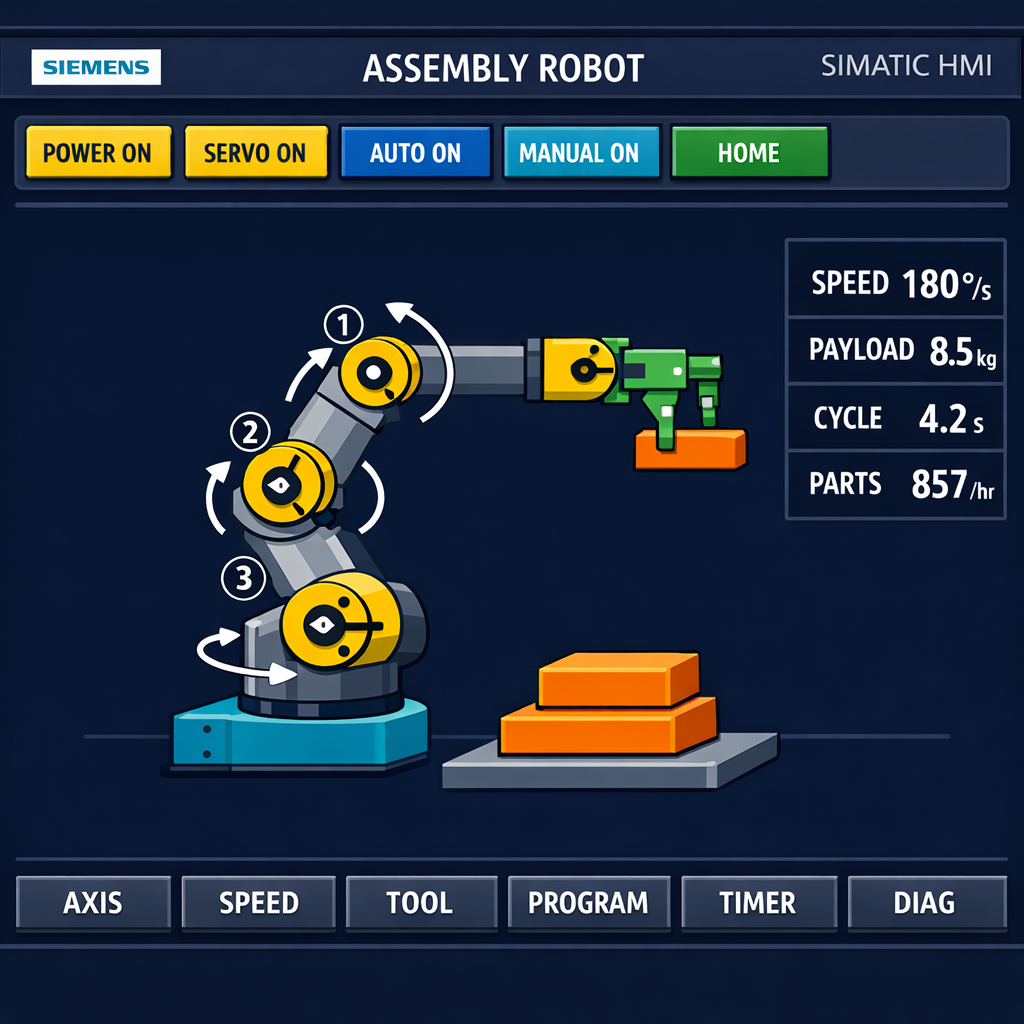
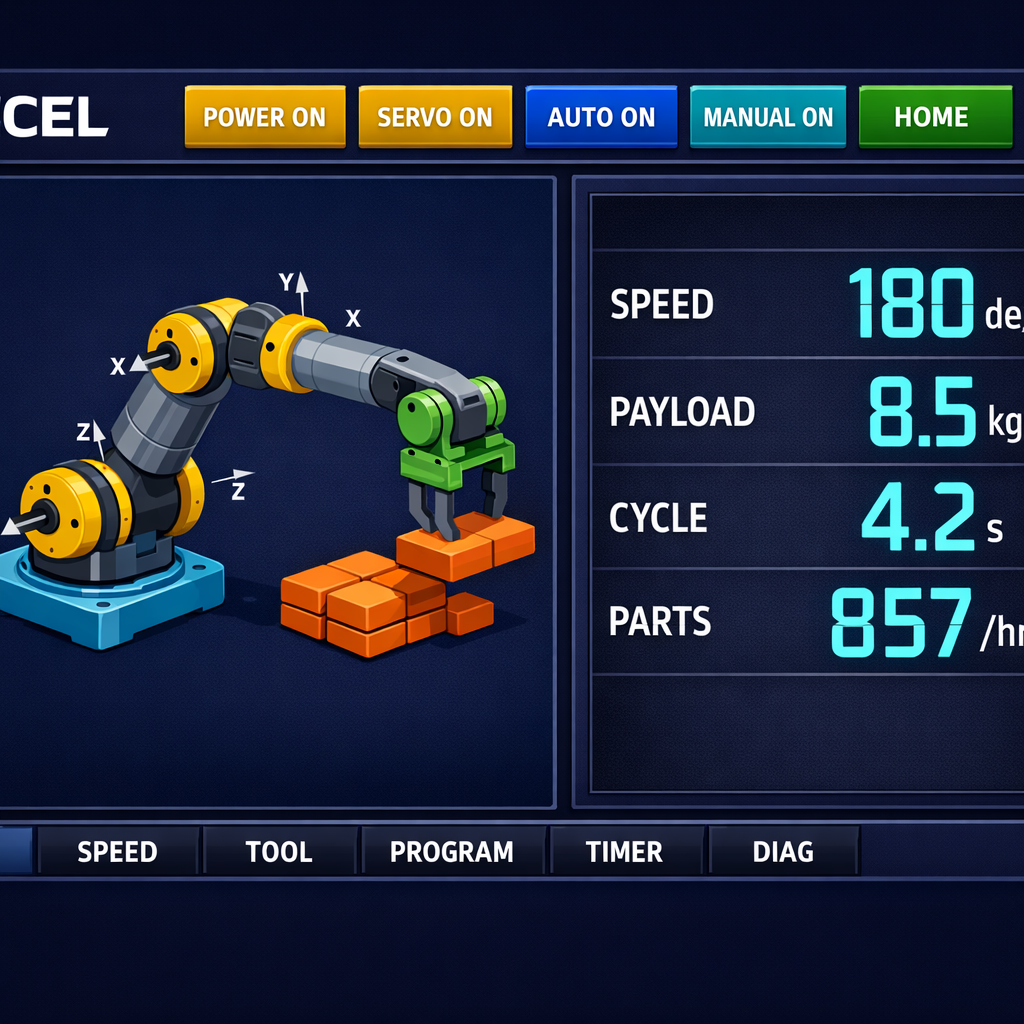
feat: replace HMI images with MYNCEL-branded schematic screens
- Remove all Siemens/SIMATIC branding from HMI images
- Add MYNCEL logo to all 9 machine HMI screens
- Generate new technical schematic HMI images
- Bump cache-bust version from ?v=4 to ?v=5

diff --git a/app/admin/hmi/page.tsx b/app/admin/hmi/page.tsx
@@ -79,45 +79,45 @@ function getMachineImageUrl(category: string, machineName: string): string {
   const name = machineName.toLowerCase();
   // Specific name matches first
   if (name.includes('press brake') || name.includes('pressbrake'))
-    return '/machines/press-brake.png?v=4';
+    return '/machines/press-brake.png?v=5';
   if (name.includes('injection mold') || name.includes('injection molding') || name.includes('inject'))
-    return '/machines/injection-mold.png?v=4';
+    return '/machines/injection-mold.png?v=5';
   if (name.includes('robot') || name.includes('assembly'))
-    return '/machines/assembly.png?v=4';
+    return '/machines/assembly.png?v=5';
   if (name.includes('weld'))
-    return '/machines/welder.png?v=4';
+    return '/machines/welder.png?v=5';
   if (name.includes('lathe'))
-    return '/machines/cnc-lathe.png?v=4';
+    return '/machines/cnc-lathe.png?v=5';
   if (name.includes('mill') || name.includes('milling'))
-    return '/machines/cnc-mill.png?v=4';
+    return '/machines/cnc-mill.png?v=5';
   if (name.includes('press') || name.includes('hydraulic'))
-    return '/machines/press-brake.png?v=4';
+    return '/machines/press-brake.png?v=5';
   if (name.includes('compressor'))
-    return '/machines/compressor.png?v=4';
+    return '/machines/compressor.png?v=5';
   if (name.includes('conveyor'))
-    return '/machines/conveyor.png?v=4';
+    return '/machines/conveyor.png?v=5';
 
   // Category fallbacks
   switch (category) {
     case 'CNC_MILL':
-      return '/machines/cnc-mill.png?v=4';
+      return '/machines/cnc-mill.png?v=5';
     case 'CNC_LATHE':
-      return '/machines/cnc-lathe.png?v=4';
+      return '/machines/cnc-lathe.png?v=5';
     case 'PRESS':
     case 'HYDRAULIC':
-      return '/machines/press-brake.png?v=4';
+      return '/machines/press-brake.png?v=5';
     case 'COMPRESSOR':
-      return '/machines/compressor.png?v=4';
+      return '/machines/compressor.png?v=5';
     case 'CONVEYOR':
-      return '/machines/conveyor.png?v=4';
+      return '/machines/conveyor.png?v=5';
     case 'WELDER':
-      return '/machines/welder.png?v=4';
+      return '/machines/welder.png?v=5';
     case 'INJECTION_MOLD':
-      return '/machines/injection-mold.png?v=4';
+      return '/machines/injection-mold.png?v=5';
     case 'ASSEMBLY':
-      return '/machines/assembly.png?v=4';
+      return '/machines/assembly.png?v=5';
     default:
-      return '/machines/other.png?v=4';
+      return '/machines/other.png?v=5';
   }
 }
 

diff --git a/app/dashboard/hmi/UserHMIClient.tsx b/app/dashboard/hmi/UserHMIClient.tsx
@@ -34,45 +34,45 @@ function getMachineImageUrl(category: string, machineName: string): string {
   const name = machineName.toLowerCase();
   // Specific name matches first
   if (name.includes('press brake') || name.includes('pressbrake'))
-    return '/machines/press-brake.png?v=4';
+    return '/machines/press-brake.png?v=5';
   if (name.includes('injection mold') || name.includes('injection molding') || name.includes('inject'))
-    return '/machines/injection-mold.png?v=4';
+    return '/machines/injection-mold.png?v=5';
   if (name.includes('robot') || name.includes('assembly'))
-    return '/machines/assembly.png?v=4';
+    return '/machines/assembly.png?v=5';
   if (name.includes('weld'))
-    return '/machines/welder.png?v=4';
+    return '/machines/welder.png?v=5';
   if (name.includes('lathe'))
-    return '/machines/cnc-lathe.png?v=4';
+    return '/machines/cnc-lathe.png?v=5';
   if (name.includes('mill') || name.includes('milling'))
-    return '/machines/cnc-mill.png?v=4';
+    return '/machines/cnc-mill.png?v=5';
   if (name.includes('press') || name.includes('hydraulic'))
-    return '/machines/press-brake.png?v=4';
+    return '/machines/press-brake.png?v=5';
   if (name.includes('compressor'))
-    return '/machines/compressor.png?v=4';
+    return '/machines/compressor.png?v=5';
   if (name.includes('conveyor'))
-    return '/machines/conveyor.png?v=4';
+    return '/machines/conveyor.png?v=5';
 
   // Category fallbacks
   switch (category) {
     case 'CNC_MILL':
-      return '/machines/cnc-mill.png?v=4';
+      return '/machines/cnc-mill.png?v=5';
     case 'CNC_LATHE':
-      return '/machines/cnc-lathe.png?v=4';
+      return '/machines/cnc-lathe.png?v=5';
     case 'PRESS':
     case 'HYDRAULIC':
-      return '/machines/press-brake.png?v=4';
+      return '/machines/press-brake.png?v=5';
     case 'COMPRESSOR':
-      return '/machines/compressor.png?v=4';
+      return '/machines/compressor.png?v=5';
     case 'CONVEYOR':
-      return '/machines/conveyor.png?v=4';
+      return '/machines/conveyor.png?v=5';
     case 'WELDER':
-      return '/machines/welder.png?v=4';
+      return '/machines/welder.png?v=5';
     case 'INJECTION_MOLD':
-      return '/machines/injection-mold.png?v=4';
+      return '/machines/injection-mold.png?v=5';
     case 'ASSEMBLY':
-      return '/machines/assembly.png?v=4';
+      return '/machines/assembly.png?v=5';
     default:
-      return '/machines/other.png?v=4';
+      return '/machines/other.png?v=5';
   }
 }
 
